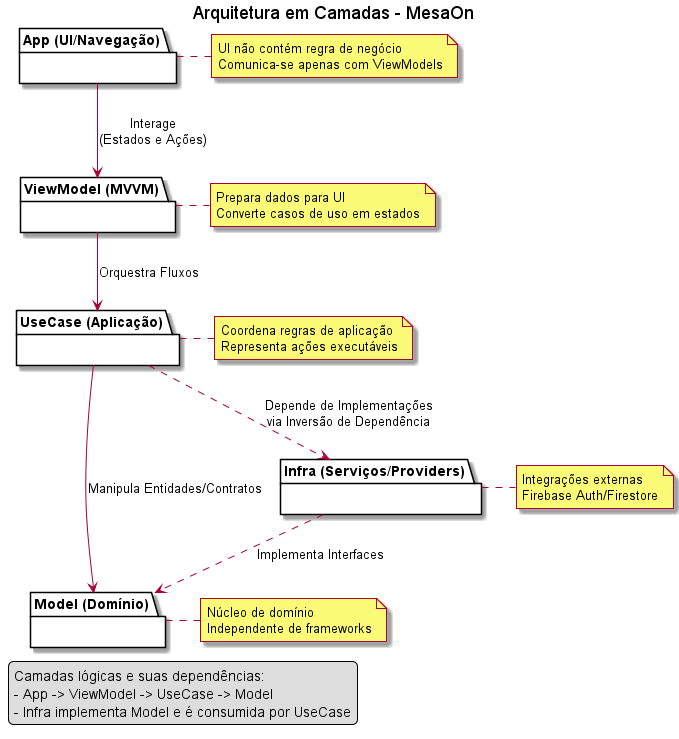
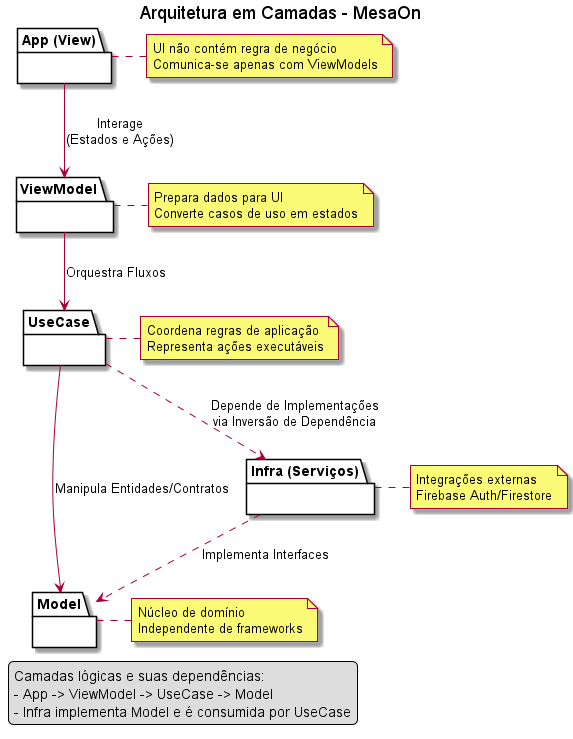
Adicionei os membros da equipe ao arquivo README e a configuração de produção ao arquivo eas.json.
Listamos os membros da equipe TypeDevs no arquivo README. Adicionamos um perfil de compilação 'production' ao arquivo eas.json para compilações de pacotes de aplicativos Android. Atualizamos a imagem do diagrama de arquitetura.

diff --git a/README.md b/README.md
@@ -8,6 +8,14 @@
 
 MesaOn é um sistema de gerenciamento de pedidos projetado para otimizar a operação em restaurantes, bares e estabelecimentos similares. Ele permite que os funcionários gerenciem mesas, registrem pedidos e acompanhem o total da conta em tempo real, tudo a partir de um dispositivo móvel.
 
+## Integrantes da equipe TypeDevs
+
+- **Francisnilto dos Santos Nascimento** - 2024116TADS0012
+- **José Gilson Araújo Rebouçasn** - 2024116TADS0041
+- **José Nilton Silva Lima** - 2024116TADS0033
+- **Pedro Henrique Valentino Silva Sousa** - 2024116TADS0013
+- **Rodrigo Cardoso de Farias** - 2024116TADS0038
+
 ## Principais funcionalidades
 
 - **Gerenciamento de Mesas:** Crie, edite e visualize o status de todas as mesas do estabelecimento.
